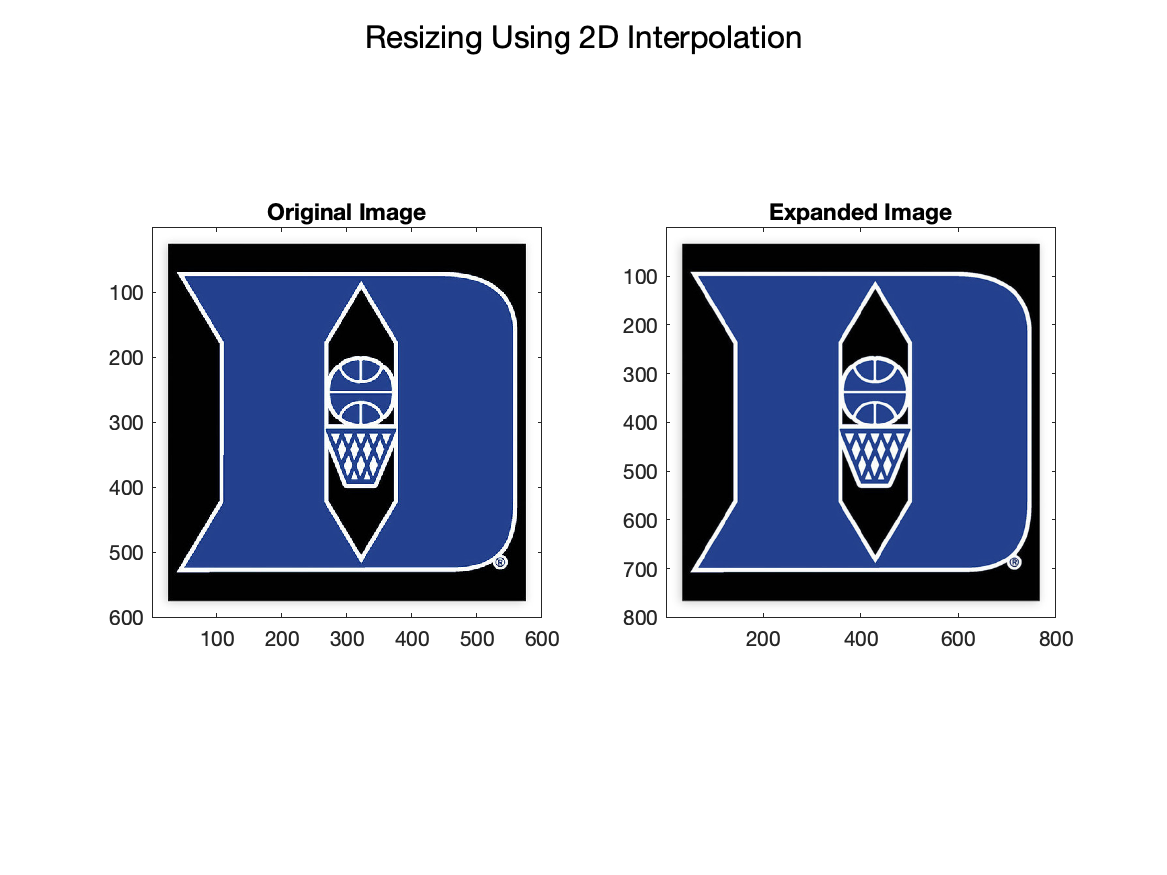
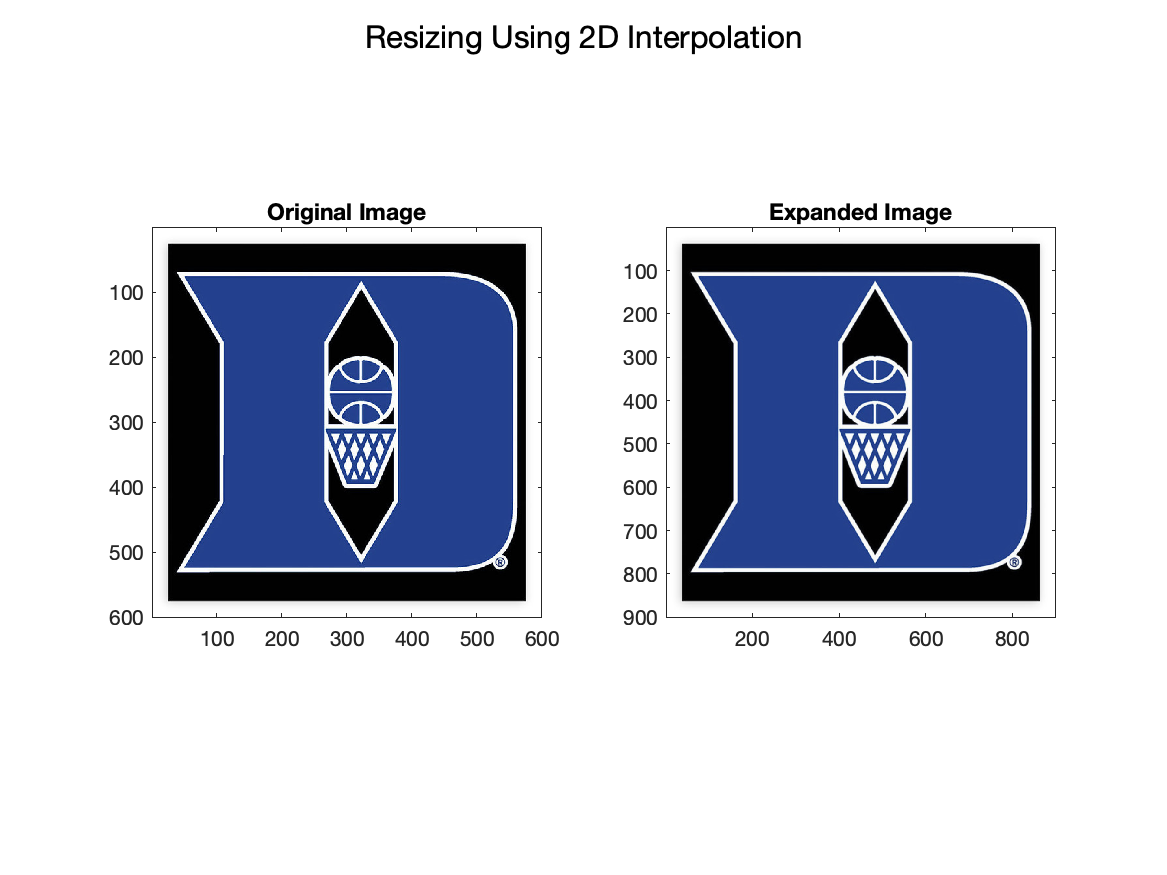
cleaner code for resizing

diff --git a/hw_2/resize.m b/hw_2/resize.m
@@ -5,9 +5,7 @@ close all;
 %% Generating resized images
 original = imread('duke.png');
 resized_1d = resize_1d(double(original), [900, 900]);
-resized_1d = (resized_1d - min(resized_1d(:))) / (max(resized_1d(:)) - min(resized_1d(:)));
-resized_2d = resize_2d(double(original) , [800, 800]);
-resized_2d = (resized_2d - min(resized_2d(:))) / (max(resized_2d(:)) - min(resized_2d(:)));
+resized_2d = resize_2d(double(original) , [900, 900]);
 
 %% Plotting 1d resized image
 fig1 = figure();

diff --git a/hw_2/resize_2d.m b/hw_2/resize_2d.m
@@ -19,4 +19,5 @@ function resized_image = resize_2d_color(image, spec)
         [X, Y] = meshgrid(linspace(0, n-1, new_n), linspace(0, m-1, new_m));
         resized_image(:,:,i) = interp2(0:n-1, 0:m-1, double(image(:,:,i)), X, Y, 'linear');
     end
+    resized_image = (resized_image - min(resized_image(:))) / (max(resized_image(:)) - min(resized_image(:)));
 end

diff --git a/hw_2/resize_1d.m b/hw_2/resize_1d.m
@@ -28,4 +28,6 @@ function resized_image = resize_1d(image, spec)
             resized_image(:, j, c) = interp1(0:m-1, intermediate_image(:, j), linspace(0, m-1, new_m), 'linear');
         end
     end
+
+    resized_image = (resized_image - min(resized_image(:))) / (max(resized_image(:)) - min(resized_image(:)));
 end
